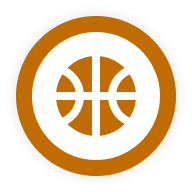
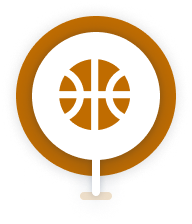
add announcements and ramp in maps

Changed region(s): [[0.0625, 0.0625, 0.9375, 0.9375]]

diff --git a/src/generated-types.ts b/src/generated-types.ts
@@ -800,7 +800,7 @@ export type UpdateProfileMutation = { __typename?: 'Mutation', updateUser: { __t
 export type GetAnnouncementsQueryVariables = Exact<{ [key: string]: never; }>;
 
 
-export type GetAnnouncementsQuery = { __typename?: 'Query', getAnnouncements: Array<{ __typename?: 'Announcement', id: string, tags?: Array<string> | null, createdAt?: any | null, title?: { __typename?: 'LanguageObject', th?: string | null, en?: string | null } | null, content?: { __typename?: 'LanguageObject', th?: string | null, en?: string | null } | null, place?: { __typename?: 'Place', id: string, name?: { __typename?: 'LanguageObject', th?: string | null, en?: string | null } | null } | null }> };
+export type GetAnnouncementsQuery = { __typename?: 'Query', getAnnouncements: Array<{ __typename?: 'Announcement', id: string, tags?: Array<string> | null, createdAt?: any | null, title?: { __typename?: 'LanguageObject', th?: string | null, en?: string | null } | null, content?: { __typename?: 'LanguageObject', th?: string | null, en?: string | null } | null, place?: { __typename?: 'Place', id: string, name?: { __typename?: 'LanguageObject', th?: string | null, en?: string | null } | null } | null, location?: { __typename?: 'Location', lat: number, lng: number } | null }> };
 
 export type GetAnnouncementByIdQueryVariables = Exact<{
   id: Scalars['String'];
@@ -808,6 +808,13 @@ export type GetAnnouncementByIdQueryVariables = Exact<{
 
 
 export type GetAnnouncementByIdQuery = { __typename?: 'Query', getAnnouncementById: { __typename?: 'Announcement', id: string, tags?: Array<string> | null, createdAt?: any | null, title?: { __typename?: 'LanguageObject', th?: string | null, en?: string | null } | null, content?: { __typename?: 'LanguageObject', th?: string | null, en?: string | null } | null, images?: Array<{ __typename?: 'Media', id: string, url?: string | null, width?: number | null, height?: number | null }> | null, metadata?: { __typename?: 'AnnouncementMetadata', phone?: string | null, email?: string | null, line?: string | null } | null, place?: { __typename?: 'Place', id: string, type?: Place_Types | null, name?: { __typename?: 'LanguageObject', th?: string | null, en?: string | null } | null } | null } };
+
+export type GetFacilitiesQueryVariables = Exact<{
+  options?: GetFacilitiesInput;
+}>;
+
+
+export type GetFacilitiesQuery = { __typename?: 'Query', getFacilities: Array<{ __typename?: 'Facility', id: string, type?: Facility_Types | null, location?: { __typename?: 'Location', lat: number, lng: number } | null }> };
 
 export type GetFacilitiesByPlaceIdQueryVariables = Exact<{
   id: Scalars['String'];
@@ -1244,6 +1251,10 @@ export const GetAnnouncementsDocument = gql`
         en
       }
     }
+    location {
+      lat
+      lng
+    }
     createdAt
   }
 }
@@ -1339,6 +1350,46 @@ export function useGetAnnouncementByIdLazyQuery(baseOptions?: Apollo.LazyQueryHo
 export type GetAnnouncementByIdQueryHookResult = ReturnType<typeof useGetAnnouncementByIdQuery>;
 export type GetAnnouncementByIdLazyQueryHookResult = ReturnType<typeof useGetAnnouncementByIdLazyQuery>;
 export type GetAnnouncementByIdQueryResult = Apollo.QueryResult<GetAnnouncementByIdQuery, GetAnnouncementByIdQueryVariables>;
+export const GetFacilitiesDocument = gql`
+    query GetFacilities($options: GetFacilitiesInput! = {}) {
+  getFacilities(options: $options) {
+    id
+    type
+    location {
+      lat
+      lng
+    }
+  }
+}
+    `;
+
+/**
+ * __useGetFacilitiesQuery__
+ *
+ * To run a query within a React component, call `useGetFacilitiesQuery` and pass it any options that fit your needs.
+ * When your component renders, `useGetFacilitiesQuery` returns an object from Apollo Client that contains loading, error, and data properties
+ * you can use to render your UI.
+ *
+ * @param baseOptions options that will be passed into the query, supported options are listed on: https://www.apollographql.com/docs/react/api/react-hooks/#options;
+ *
+ * @example
+ * const { data, loading, error } = useGetFacilitiesQuery({
+ *   variables: {
+ *      options: // value for 'options'
+ *   },
+ * });
+ */
+export function useGetFacilitiesQuery(baseOptions?: Apollo.QueryHookOptions<GetFacilitiesQuery, GetFacilitiesQueryVariables>) {
+        const options = {...defaultOptions, ...baseOptions}
+        return Apollo.useQuery<GetFacilitiesQuery, GetFacilitiesQueryVariables>(GetFacilitiesDocument, options);
+      }
+export function useGetFacilitiesLazyQuery(baseOptions?: Apollo.LazyQueryHookOptions<GetFacilitiesQuery, GetFacilitiesQueryVariables>) {
+          const options = {...defaultOptions, ...baseOptions}
+          return Apollo.useLazyQuery<GetFacilitiesQuery, GetFacilitiesQueryVariables>(GetFacilitiesDocument, options);
+        }
+export type GetFacilitiesQueryHookResult = ReturnType<typeof useGetFacilitiesQuery>;
+export type GetFacilitiesLazyQueryHookResult = ReturnType<typeof useGetFacilitiesLazyQuery>;
+export type GetFacilitiesQueryResult = Apollo.QueryResult<GetFacilitiesQuery, GetFacilitiesQueryVariables>;
 export const GetFacilitiesByPlaceIdDocument = gql`
     query GetFacilitiesByPlaceId($id: String!) {
   getFacilitiesByPlaceId(placeId: $id) {

diff --git a/src/components/WGMapView.tsx b/src/components/WGMapView.tsx
@@ -15,7 +15,10 @@ import { WGMapControlButton } from './WGMapControlButton'
 import { WGPolyline } from './WGPolyline'
 import { MapCameraConfig, MapStyle } from '~/const/map'
 import {
+  Facility_Types,
   Place_Types,
+  useGetAnnouncementsQuery,
+  useGetFacilitiesQuery,
   useGetPlacesLazyQuery,
   useGetPreDefinedRoutesQuery,
 } from '~/generated-types'
@@ -43,6 +46,14 @@ export const WGMapView = forwardRef<
 
     const [getPlaces, { data: placesData }] = useGetPlacesLazyQuery()
     const { data: routesData } = useGetPreDefinedRoutesQuery()
+    const { data: facilitiesData } = useGetFacilitiesQuery({
+      variables: {
+        options: {
+          types: [Facility_Types.Ramp],
+        },
+      },
+    })
+    const { data: announcementsData } = useGetAnnouncementsQuery()
 
     useImperativeHandle(ref, () => mapRef.current!)
 
@@ -122,6 +133,41 @@ export const WGMapView = forwardRef<
               />
             )
           })}
+          {mapViewPreferences.conditions.includes(
+            SURROUNDING_CONDITIONS.Ramp
+          ) &&
+            facilitiesData?.getFacilities.map((facility) => {
+              if (!facility || !facility.location) {
+                return null
+              }
+
+              return (
+                <WGMapMarker
+                  key={facility.id}
+                  coordinate={facility.location}
+                  type={
+                    (facility.type as unknown as SURROUNDING_CONDITIONS) ||
+                    SURROUNDING_CONDITIONS.Ramp
+                  }
+                />
+              )
+            })}
+          {mapViewPreferences.conditions.includes(
+            SURROUNDING_CONDITIONS.Incident
+          ) &&
+            announcementsData?.getAnnouncements.map((announcement) => {
+              if (!announcement || !announcement.location) {
+                return null
+              }
+
+              return (
+                <WGMapMarker
+                  key={announcement.id}
+                  coordinate={announcement.location}
+                  type={SURROUNDING_CONDITIONS.Incident}
+                />
+              )
+            })}
           {mapViewPreferences.conditions.includes('ROUTE') &&
             routesData?.getRoutes.map((route) => {
               return (

diff --git a/src/components/WGMapMarker.tsx b/src/components/WGMapMarker.tsx
@@ -1,5 +1,6 @@
 import { Image } from 'expo-image'
 import { Marker } from 'react-native-maps'
+import type { SURROUNDING_CONDITIONS } from '~/const/placeTypes'
 import { PLACE_TYPES_META } from '~/const/placeTypes'
 import type { Place_Types } from '~/generated-types'
 
@@ -13,15 +14,15 @@ export function WGMapMarker({
     lat: number
     lng: number
   }
-  onPress: () => void
-  type?: Place_Types
+  onPress?: () => void
+  type?: Place_Types | SURROUNDING_CONDITIONS
   isSelected?: boolean
 }) {
   if (!lat || !lng) {
     return null
   }
 
-  const typeMeta = type ? PLACE_TYPES_META[type] : PLACE_TYPES_META.BUILDING
+  const typeMeta = type ? PLACE_TYPES_META[type] : PLACE_TYPES_META.RAMP
 
   const stateIcon = isSelected
     ? typeMeta.mapIcon.selected

diff --git a/src/const/category.ts b/src/const/category.ts
@@ -10,10 +10,9 @@ export const ListCategoryIcon = {
   [Place_Types.Cafe]: require('~/assets/places/cafe-icon.png'),
   [Place_Types.Curbcut]: require('~/assets/places/curbcut-icon.png'),
   [Place_Types.Food]: require('~/assets/places/food-icon.png'),
-  [Place_Types.Incident]: require('~/assets/places/incident-icon.png'),
   [Place_Types.Park]: require('~/assets/places/park-icon.png'),
   [Place_Types.Parking]: require('~/assets/places/parking-icon.png'),
   [Place_Types.Residence]: require('~/assets/places/residence-icon.png'),
   [Place_Types.Toilet]: require('~/assets/places/toilet-icon.png'),
-  [Place_Types.Sport]: require('~/assets/places/building-icon.png'),
+  [Place_Types.Sport]: require('~/assets/places/sport-icon.png'),
 } satisfies CategoryIcon

diff --git a/src/const/placeTypes.ts b/src/const/placeTypes.ts
@@ -226,13 +226,13 @@ export const PLACE_TYPES_META: IPLACE_TYPES = {
     mapIcon: {
       default: {
         file: require('~/assets/places/sport-pin.png'),
-        size: { width: 24, height: 24 },
-        centerOffset: { x: 0.5, y: 0.5 },
+        size: { width: 24, height: 32 },
+        centerOffset: { x: 0.5, y: 1 },
       },
       selected: {
         file: require('~/assets/places/sport-selected.png'),
-        size: { width: 40, height: 40 },
-        centerOffset: { x: 0.5, y: 0.5 },
+        size: { width: 40, height: 46 },
+        centerOffset: { x: 0.5, y: 1 },
       },
     },
   },

diff --git a/src/graphql/query/facilities.ts b/src/graphql/query/facilities.ts
@@ -1,5 +1,18 @@
 import { gql } from '@apollo/client'
 
+export const GetFacilities = gql`
+  query GetFacilities($options: GetFacilitiesInput! = {}) {
+    getFacilities(options: $options) {
+      id
+      type
+      location {
+        lat
+        lng
+      }
+    }
+  }
+`
+
 export const GetFacilitiesByPlaceId = gql`
   query GetFacilitiesByPlaceId($id: String!) {
     getFacilitiesByPlaceId(placeId: $id) {

diff --git a/src/graphql/query/announcements.ts b/src/graphql/query/announcements.ts
@@ -20,6 +20,10 @@ export const GetAnnouncements = gql`
           en
         }
       }
+      location {
+        lat
+        lng
+      }
       createdAt
     }
   }
